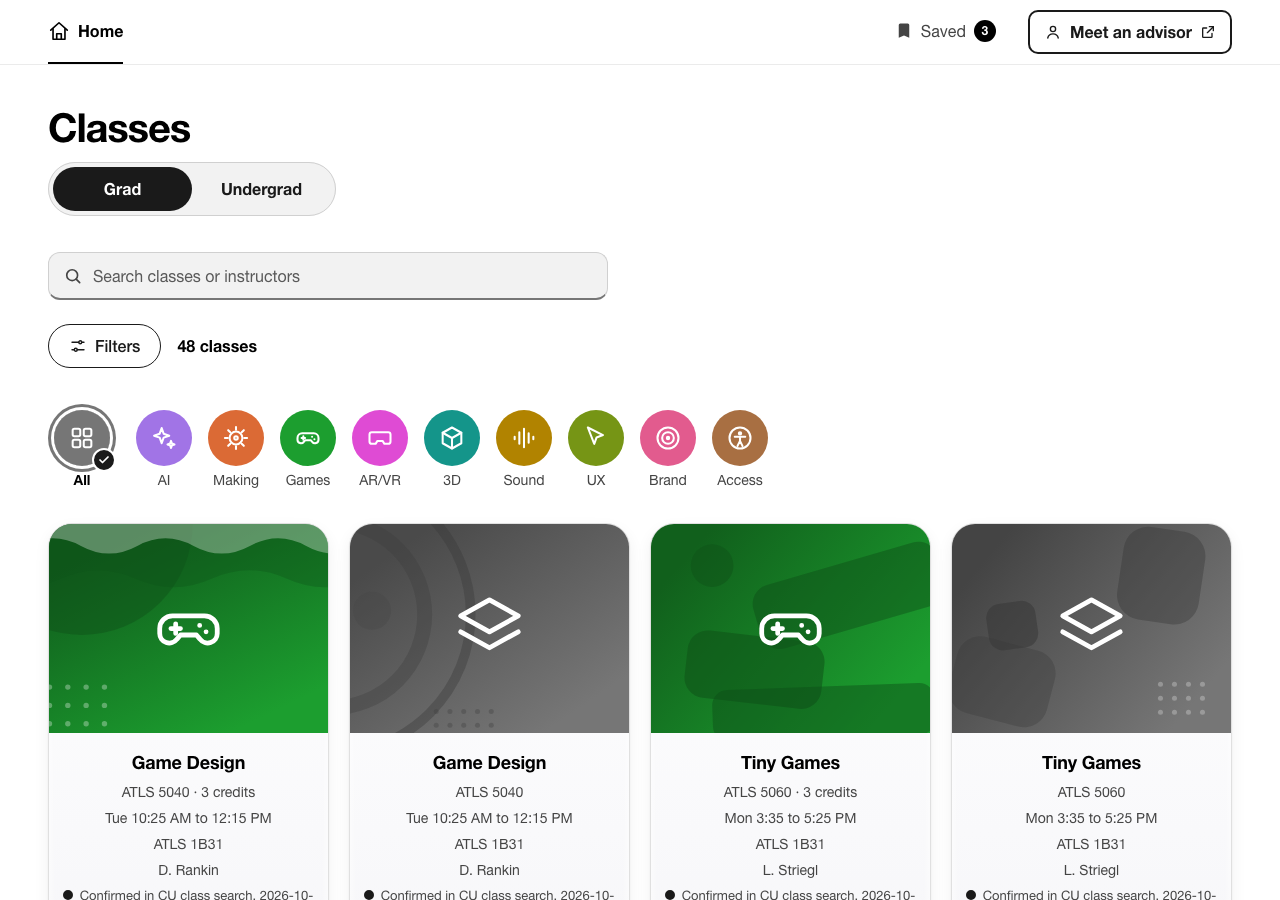
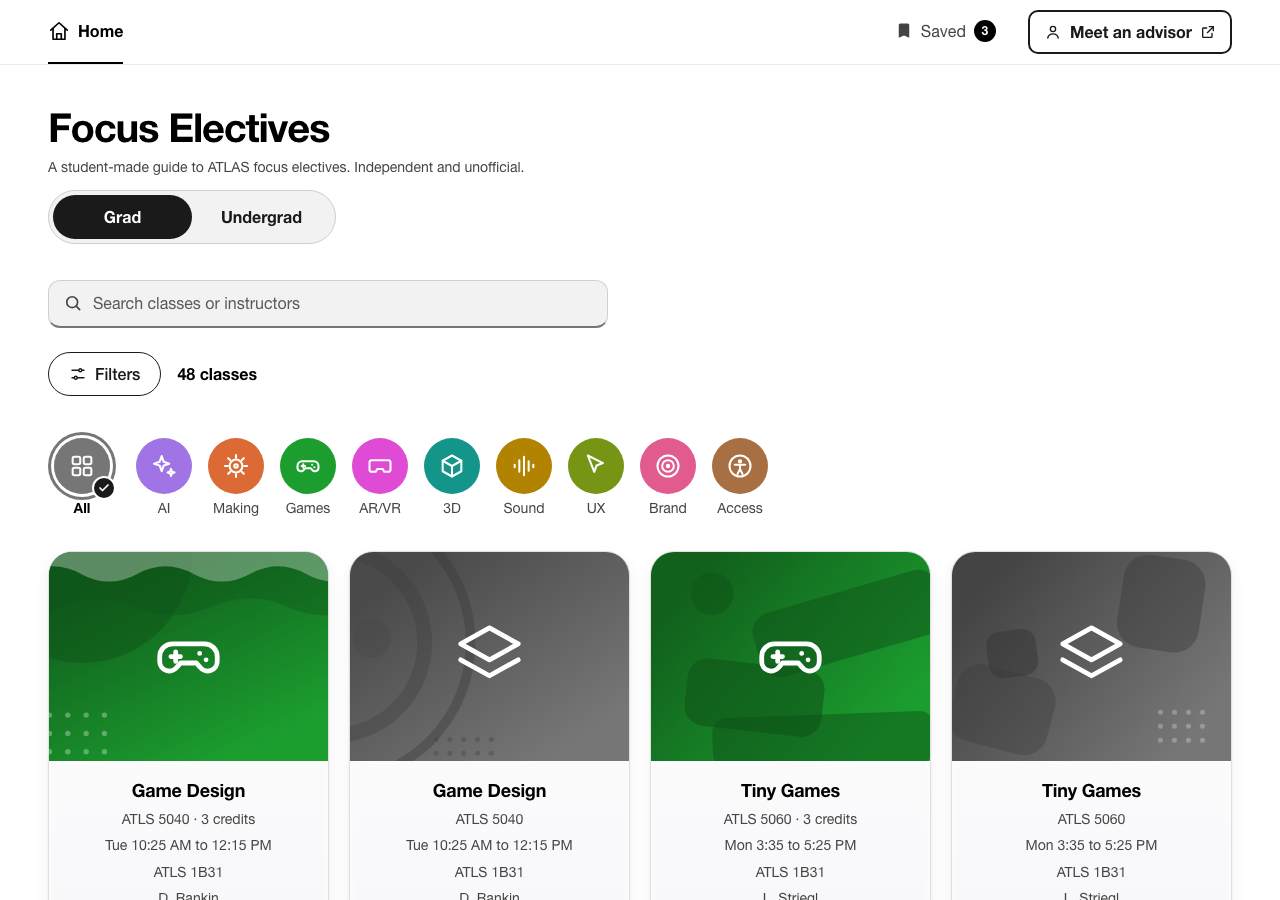
Restore name and copy, keep new classes and toggle

diff --git a/src/app/App.tsx b/src/app/App.tsx
@@ -34,7 +34,7 @@ import { semester } from './config/semester';
 import { buildCover, COVER_W, COVER_H } from './lib/cover';
 import { getEntrance, reducedMotion, transition, zoomSourceFor } from './lib/transition';
 import { motionMode } from './lib/motion';
-import { APP_NAME, DEFAULT_MODE, defaultConfig, termContext } from '../core/config.ts';
+import { APP_COPY, APP_NAME, DEFAULT_MODE, defaultConfig, termContext } from '../core/config.ts';
 import { allCourses, coursesForMode, firstUpcomingSection, showInstructors, upcomingInstructors } from '../core/courses.ts';
 import { readMode, writeMode } from '../core/mode.ts';
 import { availability, isUpcoming, lastOffered, searchTermNote, seasonOf, termRank, upcomingTerms } from '../core/terms.ts';
@@ -3548,15 +3548,7 @@ function parseRoute(): Route {
   return { name: 'notfound', kind: 'page' };
 }
 
-const ABOUT_TEXT = [
-  "ATLAS has more than 40 focus electives. Game design. Fabrication. Sound. AR/VR. Branding. AI. Accessibility.",
-  "That's a lot of opportunity. But too many students never see it, because the information is scattered, outdated or contradictory.",
-  "Picking your classes shouldn't depend on who you know or how many tabs you can keep open. Every student deserves to see every option, understand what it means for their degree, and plan with confidence.",
-  "This is about the student experience. It should feel simple. It should feel honest. And it should feel like it was made for you.",
-  "That's what this guide is for.",
-  "Saved classes and plans are kept on this device only. Clearing your browser or switching devices will remove them.",
-  "Always confirm with CU class search and your advisor.",
-];
+const ABOUT_TEXT = APP_COPY.aboutText;
 
 function AboutPage() {
   const isMobile = useWindowWidth() < 640;
@@ -3595,6 +3587,7 @@ function SiteFooter({ isMobile, hideChecked = false }: { isMobile: boolean; hide
   const small = { display:'inline-flex', alignItems:'center', justifyContent:'center', gap:4, minHeight:44, minWidth:44, padding:0, border:0, borderRadius:0, background:'none', color:'#444', fontSize:14, fontWeight:500, textDecoration:'underline', textUnderlineOffset:3 } as const;
   return (
     <footer style={{ margin:isMobile ? '0 16px' : `0 ${SPACING.pagePx}px`, padding:isMobile ? `24px 0 calc(${BAR_H} + 88px)` : '24px 0 96px', borderTop:'1px solid #E0E0E0', display:'flex', flexDirection:'column', gap:4, maxWidth:'70ch' }}>
+      <p style={{ margin:0, fontSize:14, lineHeight:1.4, color:'#444' }}>{APP_COPY.footerDisclaimer}</p>
       <div style={{ display:'flex', flexWrap:'wrap', alignItems:'center', columnGap:20 }}>
         {feedback && <ExternalAction href={feedback} sr="(opens in a new tab)" style={small}>Give feedback</ExternalAction>}
         <AppLink to="#/about" style={small}>About</AppLink>
@@ -4177,9 +4170,10 @@ export default function App() {
               <motion.div key="grid" initial={getEntrance() === 'fade' ? { opacity:0 } : false} animate={{ opacity:1, transition:{ duration:0.2 } }}>
                 {/* Header */}
                 <div style={{ display:'flex', flexDirection:isMobile?'column':'row', alignItems:'flex-start', justifyContent:isMobile?'flex-start':'space-between', gap:isMobile?16:0, marginBottom:isMobile?12:SPACING.headingMb }}>
-                  <div style={{ display:'flex', flexDirection:'column', gap:12, width:'100%' }}>
+                  <div style={{ width:'100%' }}>
                     <h1 style={{ fontSize:isMobile?32:40, fontWeight:700, letterSpacing:'-0.03em', color:'#000', margin:0, lineHeight:1.15 }}>{APP_NAME}</h1>
-                    <ModeToggle mode={mode} onChange={chooseMode} />
+                    <p style={{ margin:'8px 0 0', fontSize:14, lineHeight:1.4, color:'#444', maxWidth:'62ch' }}>{APP_COPY.tagline}</p>
+                    <div style={{ marginTop:12 }}><ModeToggle mode={mode} onChange={chooseMode} /></div>
                   </div>
                 </div>
 

diff --git a/src/core/config.ts b/src/core/config.ts
@@ -23,7 +23,25 @@ export interface CoreConfig {
 }
 
 /** The app's name, shown in the header and the tab title. */
-export const APP_NAME = 'Classes';
+export const APP_NAME = 'Focus Electives';
+
+/**
+ * The app's copy: the tagline under the name, the About text and the footer line. Word for word as in the original site
+ * (commit ae27a28). Renaming the app or removing any of this is an edit to this one object (and APP_NAME above).
+ */
+export const APP_COPY = {
+  tagline: "A student-made guide to ATLAS focus electives. Independent and unofficial.",
+  aboutText: [
+    "ATLAS has more than 40 focus electives. Game design. Fabrication. Sound. AR/VR. Branding. AI. Accessibility.",
+    "That's a lot of opportunity. But too many students never see it, because the information is scattered, outdated or contradictory.",
+    "Picking your classes shouldn't depend on who you know or how many tabs you can keep open. Every student deserves to see every option, understand what it means for their degree, and plan with confidence.",
+    "This is about the student experience. It should feel simple. It should feel honest. And it should feel like it was made for you.",
+    "That's what this guide is for.",
+    "Saved classes and plans are kept on this device only. Clearing your browser or switching devices will remove them.",
+    "Built by an ATLAS student, for ATLAS students. Not an official CU or ATLAS tool. Always confirm with CU class search and your advisor.",
+  ],
+  footerDisclaimer: "Independent and unofficial. A student-built guide, not an official CU Boulder or ATLAS tool.",
+};
 
 /** The mode shown when nothing valid has been saved. */
 export const DEFAULT_MODE: ViewMode = 'grad';
